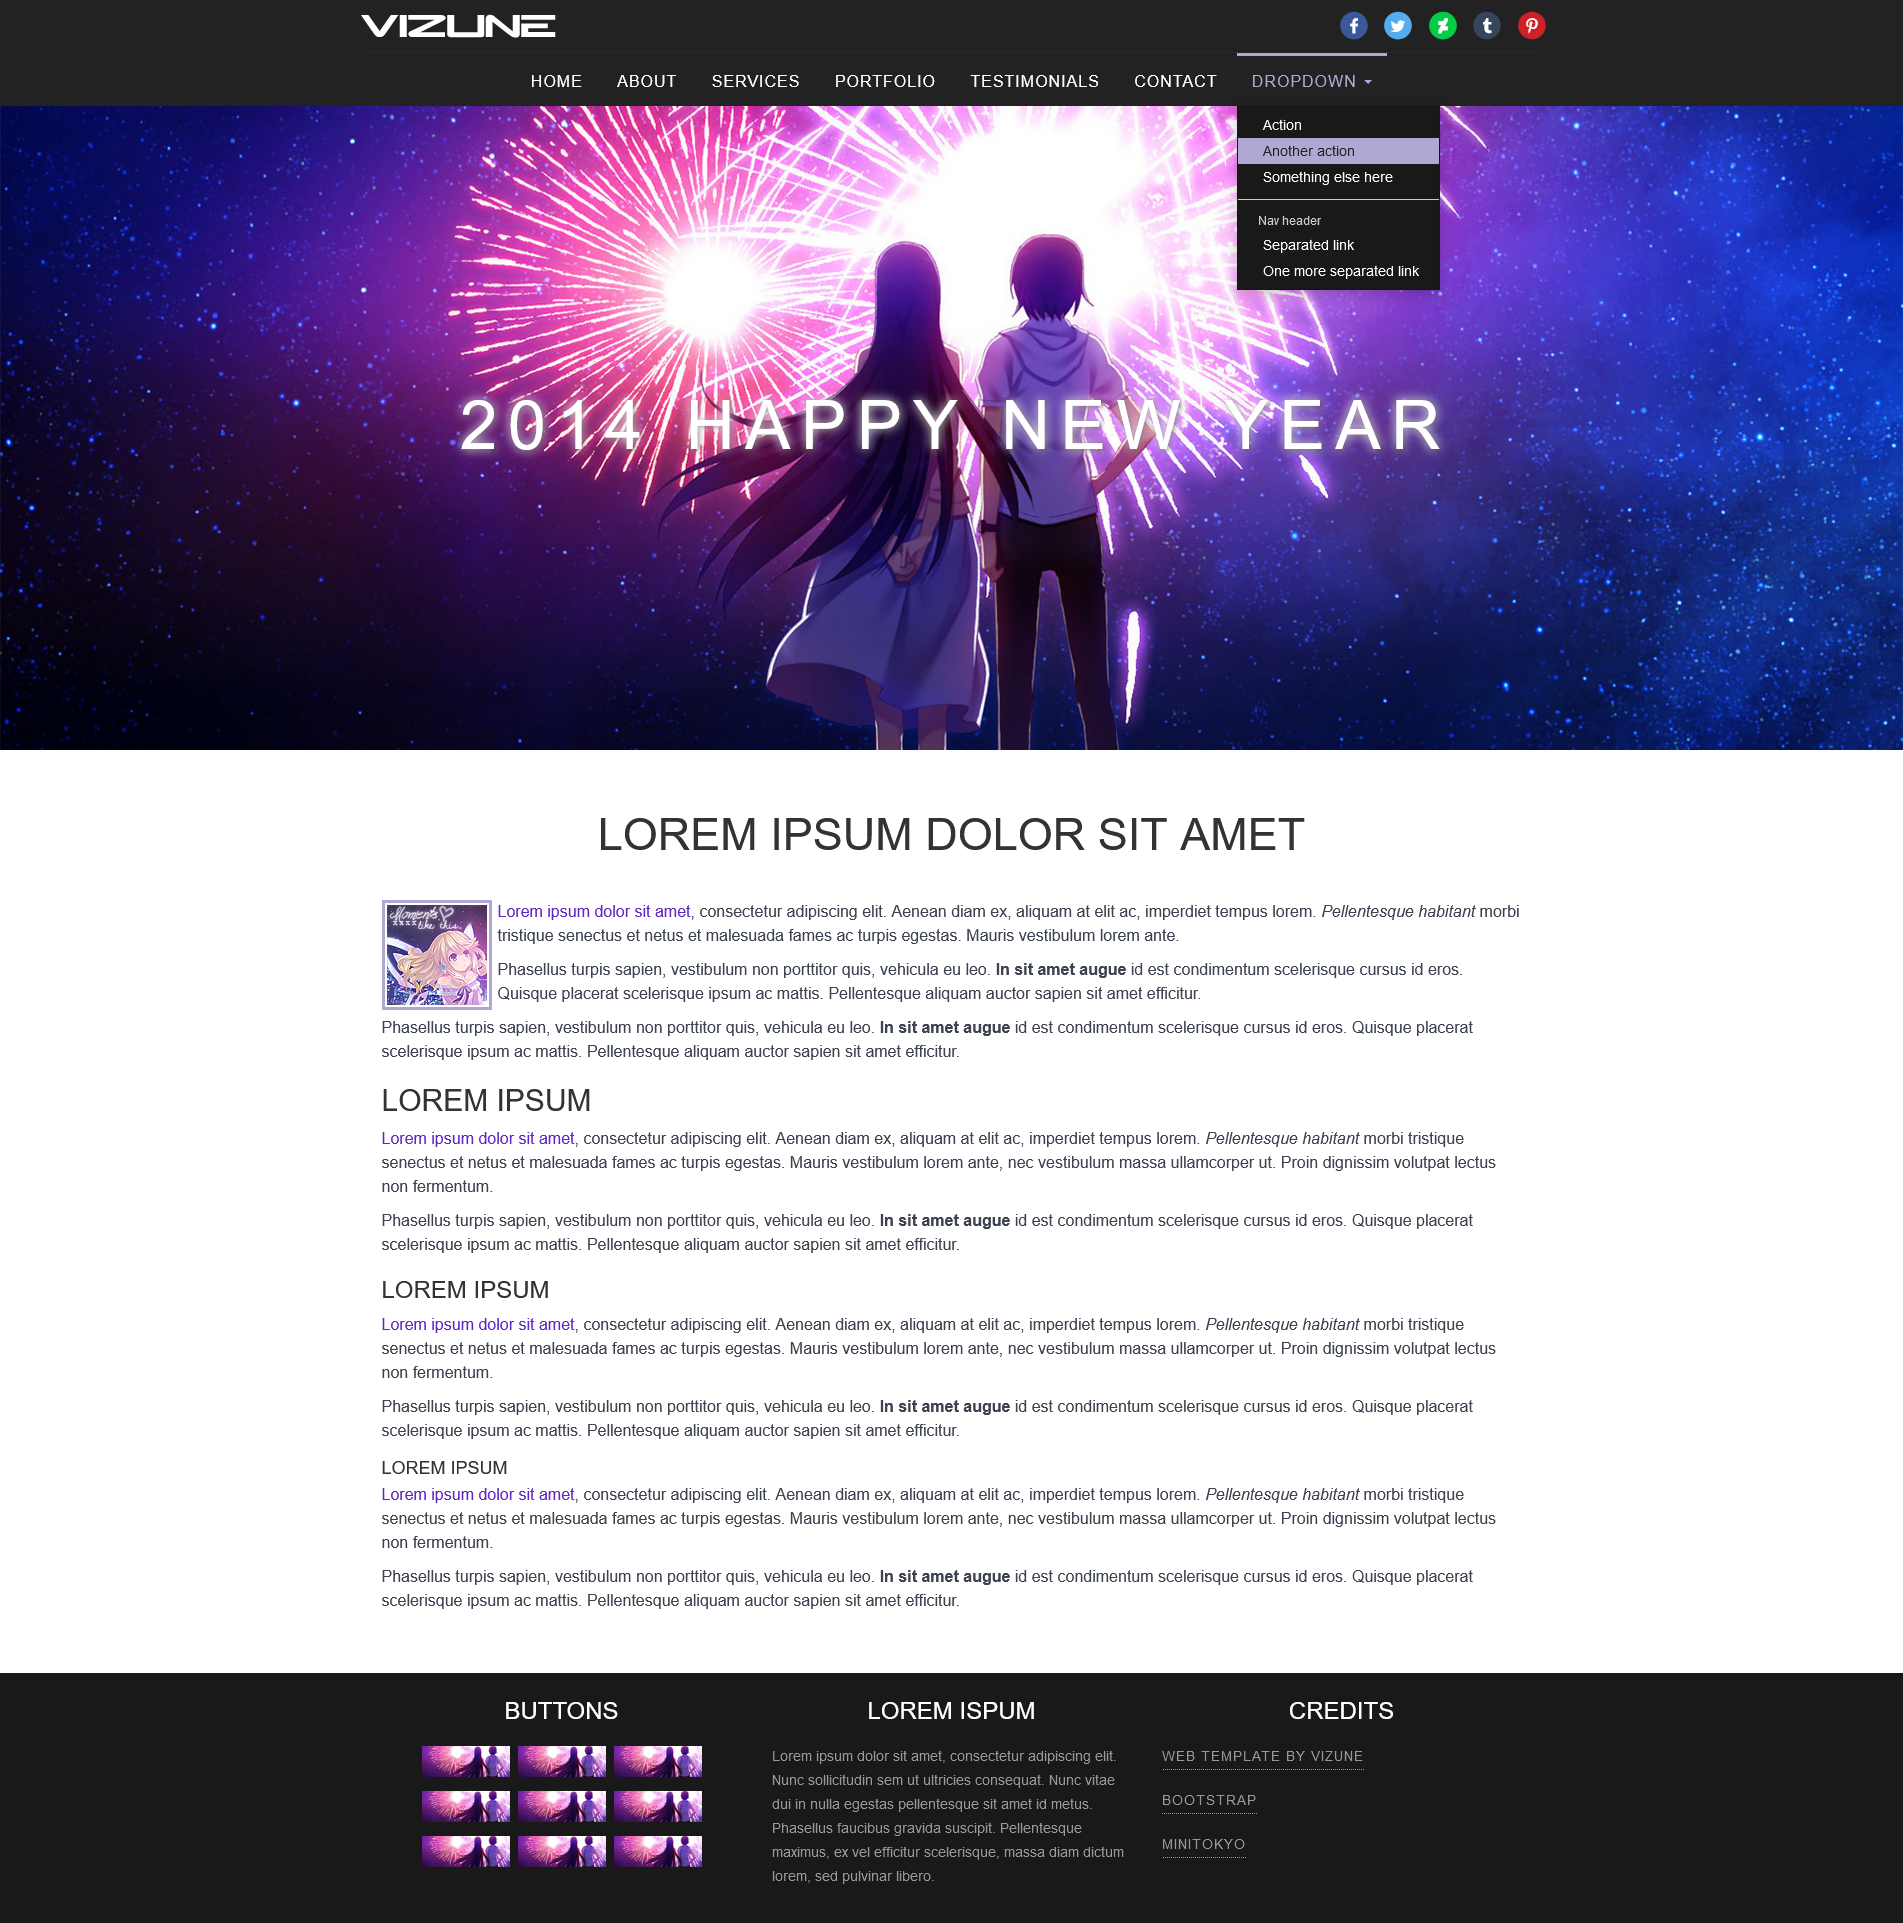
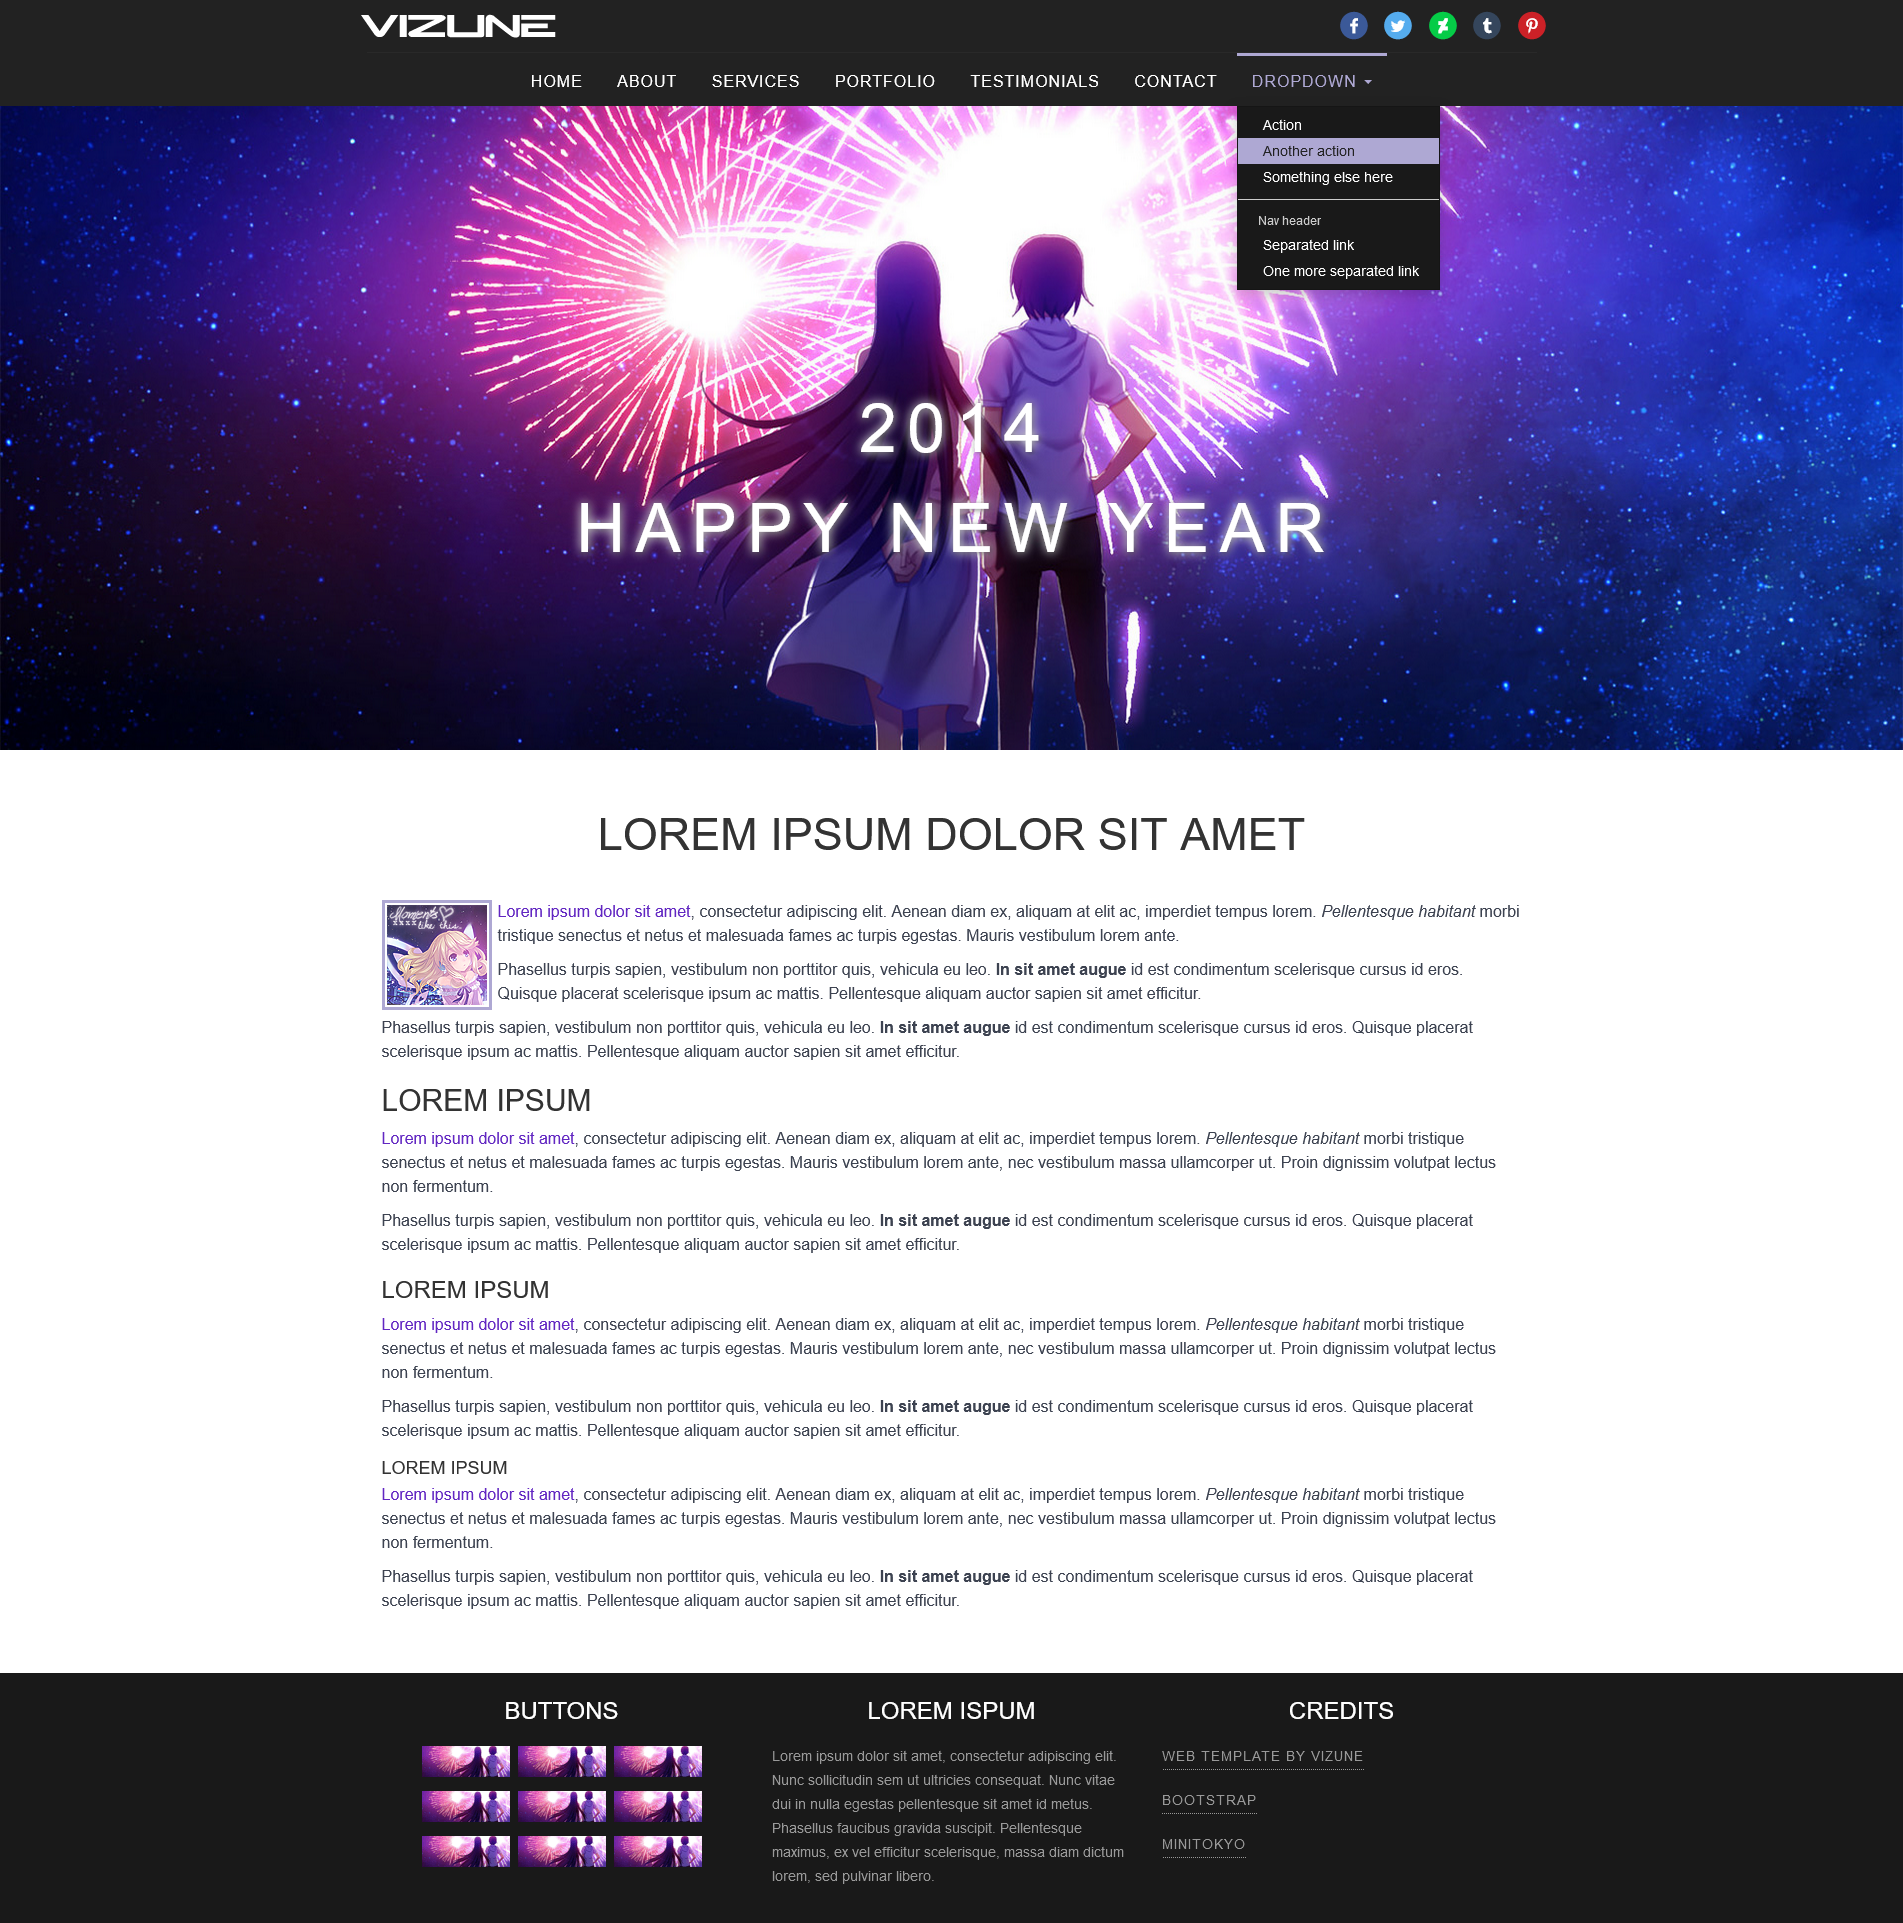
New year template amends

Changed region(s): [[0.248, 0.1872, 0.7751, 0.312]]

diff --git a/new-year/css/style.css b/new-year/css/style.css
@@ -44,8 +44,9 @@ a, a:hover, a:focus {
 	text-indent:-99999px;
 	display:block;
 	width:210px; /* Update this value to the width of your logo */
-    height:50px;
+  height:50px;
 	padding:0;
+  margin-left: 10px;
 }
 /* Remove this CSS if you don't want center aligned navigation links */
 .navbar-nav {
@@ -54,16 +55,16 @@ a, a:hover, a:focus {
 
 .navbar-nav>li {
 	float: none;
-	display: inline-block;
+	display: block;
 }
 /* End of center aligned navigation links */
-
 .nav>li>a {
     color: #fff;
     text-transform: uppercase;
     border-top: 3px solid transparent;
     font-size: 16px;
     letter-spacing: 1px;
+    text-align: center;
 }
 .nav>li>a:focus, .nav>li>a:hover {
     background: none;
@@ -176,11 +177,13 @@ ul.social li {
   justify-content: center;
   flex-wrap: wrap;
 }
-.letter-container div {
+.letter-container a {
   display: flex;
+  justify-content: center;
+  text-decoration: none;
 }
 .letter-container div + div {
-  margin-left: 4rem;
+  margin-left: 3rem;
 }
 .letter-container span + span {
   margin-left: .75rem;
@@ -202,153 +205,141 @@ ul.social li {
 .letter-container span:hover{
   text-shadow: 0px 0px 40px #fff;
 }
-.letter-container span:nth-of-type(2) {
+.letter-container p a span:nth-child(2) {
   -webkit-animation-delay: 0.1s;
   animation-delay: 0.1s;
 }
-.letter-container span:nth-of-type(3) {
+.letter-container p a span:nth-child(3) {
   -webkit-animation-delay: 0.2s;
   animation-delay: 0.2s;
 }
-.letter-container span:nth-of-type(4) {
+.letter-container p a span:nth-child(4) {
   -webkit-animation-delay: 0.3s;
   animation-delay: 0.3s;
 }
-.letter-container span:nth-of-type(5) {
+.letter-container p a span:nth-child(5) {
   -webkit-animation-delay: 0.4s;
   animation-delay: 0.4s;
 }
-.letter-container span:nth-of-type(6) {
+.letter-container p a span:nth-child(6) {
   -webkit-animation-delay: 0.5s;
   animation-delay: 0.5s;
 }
-.letter-container span:nth-of-type(7) {
+.letter-container p a span:nth-child(7) {
   -webkit-animation-delay: 0.6s;
   animation-delay: 0.6s;
 }
-.letter-container span:nth-of-type(8) {
+.letter-container p a span:nth-child(8) {
   -webkit-animation-delay: 0.7s;
   animation-delay: 0.7s;
 }
-.letter-container span:nth-of-type(9) {
+.letter-container p a span:nth-child(9) {
   -webkit-animation-delay: 0.8s;
   animation-delay: 0.8s;
 }
-.letter-container span:nth-of-type(10) {
+.letter-container p a span:nth-child(10) {
   -webkit-animation-delay: 0.9s;
   animation-delay: 0.9s;
 }
-.letter-container span:nth-of-type(11) {
+.letter-container p a span:nth-child(11) {
   -webkit-animation-delay: 1s;
   animation-delay: 1s;
 }
-.letter-container span:nth-of-type(12) {
+.letter-container p a span:nth-child(12) {
   -webkit-animation-delay: 1.1s;
   animation-delay: 1.1s;
 }
-.letter-container span:nth-of-type(13) {
+.letter-container p a span:nth-child(13) {
   -webkit-animation-delay: 1.2s;
   animation-delay: 1.2s;
 }
-.letter-container span:nth-of-type(14) {
+.letter-container p a span:nth-child(14) {
   -webkit-animation-delay: 1.3s;
   animation-delay: 1.3s;
 }
-.letter-container span:nth-of-type(15) {
+.letter-container p a span:nth-child(15) {
   -webkit-animation-delay: 1.4s;
   animation-delay: 1.4s;
 }
-.letter-container span:nth-of-type(16) {
+.letter-container p a span:nth-child(16) {
   -webkit-animation-delay: 1.5s;
   animation-delay: 1.5s;
 }
-.letter-container span:nth-of-type(17) {
+.letter-container p a span:nth-child(17) {
   -webkit-animation-delay: 1.6s;
   animation-delay: 1.6s;
 }
-.letter-container span:nth-of-type(17) {
+.letter-container p a span:nth-child(17) {
   -webkit-animation-delay: 1.6s;
   animation-delay: 1.6s;
 }
-.letter-container span:nth-of-type(18) {
+.letter-container p a span:nth-child(18) {
   -webkit-animation-delay: 1.7s;
   animation-delay: 1.7s;
 }
-.letter-container span:nth-of-type(19) {
+.letter-container p a span:nth-child(19) {
   -webkit-animation-delay: 1.8s;
   animation-delay: 1.8s;
 }
-.letter-container span:nth-of-type(20) {
+.letter-container p a span:nth-child(20) {
   -webkit-animation-delay: 1.9s;
   animation-delay: 1.9s;
 }
-.letter-container span:nth-of-type(21) {
+.letter-container p a span:nth-child(21) {
   -webkit-animation-delay: 2s;
   animation-delay: 2s;
 }
-.letter-container span:nth-of-type(22) {
+.letter-container p a span:nth-child(22) {
   -webkit-animation-delay: 2.1s;
   animation-delay: 2.1s;
 }
-.letter-container span:nth-of-type(23) {
+.letter-container p a span:nth-child(23) {
   -webkit-animation-delay: 2.2s;
   animation-delay: 2.2s;
 }
-.letter-container span:nth-of-type(24) {
+.letter-container p a span:nth-child(24) {
   -webkit-animation-delay: 2.3s;
   animation-delay: 2.3s;
 }
-.letter-container span:nth-of-type(25) {
+.letter-container p a span:nth-child(25) {
   -webkit-animation-delay: 2.4s;
   animation-delay: 2.4s;
 }
-.letter-container span:nth-of-type(26) {
+.letter-container p a span:nth-child(26) {
   -webkit-animation-delay: 2.5s;
   animation-delay: 2.5s;
 }
-.letter-container span:nth-of-type(27) {
+.letter-container p a span:nth-child(27) {
   -webkit-animation-delay: 2.6s;
   animation-delay: 2.6s;
 }
-.letter-container span:nth-of-type(28) {
+.letter-container p a span:nth-child(28) {
   -webkit-animation-delay: 2.7s;
   animation-delay: 2.7s;
 }
-.letter-container span:nth-of-type(29) {
+.letter-container p a span:nth-child(29) {
   -webkit-animation-delay: 2.8s;
   animation-delay: 2.8s;
 }
-.letter-container span:nth-of-type(30) {
+.letter-container p a span:nth-child(30) {
   -webkit-animation-delay: 2.9s;
   animation-delay: 2.9s;
 }
-.letter-container span:nth-of-type(31) {
+.letter-container p a span:nth-child(31) {
   -webkit-animation-delay: 3s;
   animation-delay: 3s;
 }
-.letter-container span:nth-of-type(32) {
+.letter-container p a span:nth-child(32) {
   -webkit-animation-delay: 3.1s;
   -moz-animation-delay: 3.1s;
   -ms-animation-delay: 3.1s;
   animation-delay: 3.1s;
 }
-.letter-container span:nth-of-type(33) {
+.letter-container p a span:nth-child(33) {
   -webkit-animation-delay: 3.2s;
   -moz-animation-delay: 3.2s;
   -ms-animation-delay: 3.2s;
   animation-delay: 3.2s;
-}
-@media all and (min-width: 800px){
-.letter-container span {font-size: 68px;}
-}
-
-@media all and (max-width: 800px){
-.letter-container span {font-size: 55px;}
-}
-
-@media all and (max-width: 650px){
-	.letter-container span {font-size: 45px;}
-	.letter-container {top: 20%;}
 }
 @-webkit-keyframes sharpen {
  0% {
@@ -405,22 +396,23 @@ h4 {
 }
 .avatar {
 	margin: 0 6px 4px 0;
-    border: 3px solid var(--lilac);
+  border: 3px solid var(--lilac);
 	padding: 2px;
-    float: left;
+  float: left;
 }
 /* FOOTER */
 footer {
 	background:#191919;
 	width: 100%;
 	color: var(--grey);
-    font-size: 14px;
-    padding: 25px 0;
+  font-size: 14px;
+  padding: 25px 0;
 }
 
 footer .widget {
     border-left: 4px solid var(--light);
     min-height: 100%;
+    margin: 0 15px 40px;
 }
 
 footer h2 {
@@ -467,9 +459,19 @@ footer ul.links li a:hover {
 	border: 2px solid var(--lilac);
 }
 /* MEDIA QUERIES */
-@media screen and (max-width: 768px) {
-    .logo {margin-left: 10px;}
-    .widget {margin: 0 15px 40px;}
-    .nav>li>a {text-align: center;}
-    .navbar-nav>li {display: block;}
+@media screen and (min-width: 768px) {
+  .logo {margin-left: 0;}
+  .nav>li>a {text-align: left;}
+  .navbar-nav>li {display: inline-block;}
+  .letter-container { transform: translateY(6rem); }
+  .letter-container span {font-size: 68px;}
+  .widget { margin: 0; }
+}
+@media all and (max-width: 800px){
+  .letter-container span {font-size: 55px;}
+}
+  
+@media all and (max-width: 650px){
+    .letter-container span {font-size: 45px;}
+    .letter-container {top: 20%;}
 }

diff --git a/new-year/index.html b/new-year/index.html
@@ -11,11 +11,6 @@
 <!-- For easier upgrading of Bootstrap in the future, don't touch this stylesheet, overwrite in style.css -->
 <link href="css/bootstrap.min.css" rel="stylesheet"/>
 <link href="css/style.css" rel="stylesheet"/>
-<!-- HTML5 shim and Respond.js for IE8 support of HTML5 elements and media queries -->
-<!--[if lt IE 9]>
-          <script src="https://oss.maxcdn.com/html5shiv/3.7.2/html5shiv.min.js"></script>
-          <script src="https://oss.maxcdn.com/respond/1.4.2/respond.min.js"></script>
-        <![endif]-->
 </head>
 <body>
 <div id="wrapper">
@@ -106,30 +101,29 @@
 	</nav>
 	<div class="jumbotron">
         <div class="letter-container">
-			<div>
-				<span>2</span>
-				<span>0</span>
-				<span>1</span>
-				<span>4</span>
-			</div>
-			<div>
-				<span>H</span>
-				<span>A</span>
-				<span>P</span>
-				<span>P</span>
-				<span>Y</span>
-			</div>
-			<div>
-				<span>N</span>
-				<span>E</span>
-				<span>W</span>
-			</div>
-			<div>
-				<span>Y</span>
-				<span>E</span>
-				<span>A</span>
-				<span>R</span>
-			</div>
+			<p>
+				<a>
+					<span class="char1">2</span>
+					<span class="char2">0</span>
+					<span class="char3">1</span>
+					<span class="char4">4</span>
+				</a>
+				<a>
+					<span class="char5">H</span>
+					<span class="char6">A</span>
+					<span class="char7">P</span>
+					<span class="char8">P</span>
+					<span class="char9">Y</span>
+					<span class="char10">&nbsp;</span>
+					<span class="char11">N</span>
+					<span class="char12">E</span>
+					<span class="char13">W</span>
+					<span class="char14">&nbsp;</span>
+					<span class="char15">Y</span>
+					<span class="char16">E</span>
+					<span class="char17">A</span>
+					<span class="char18">R</span>
+				</a>
 			</p>
         </div>
 	</div>
